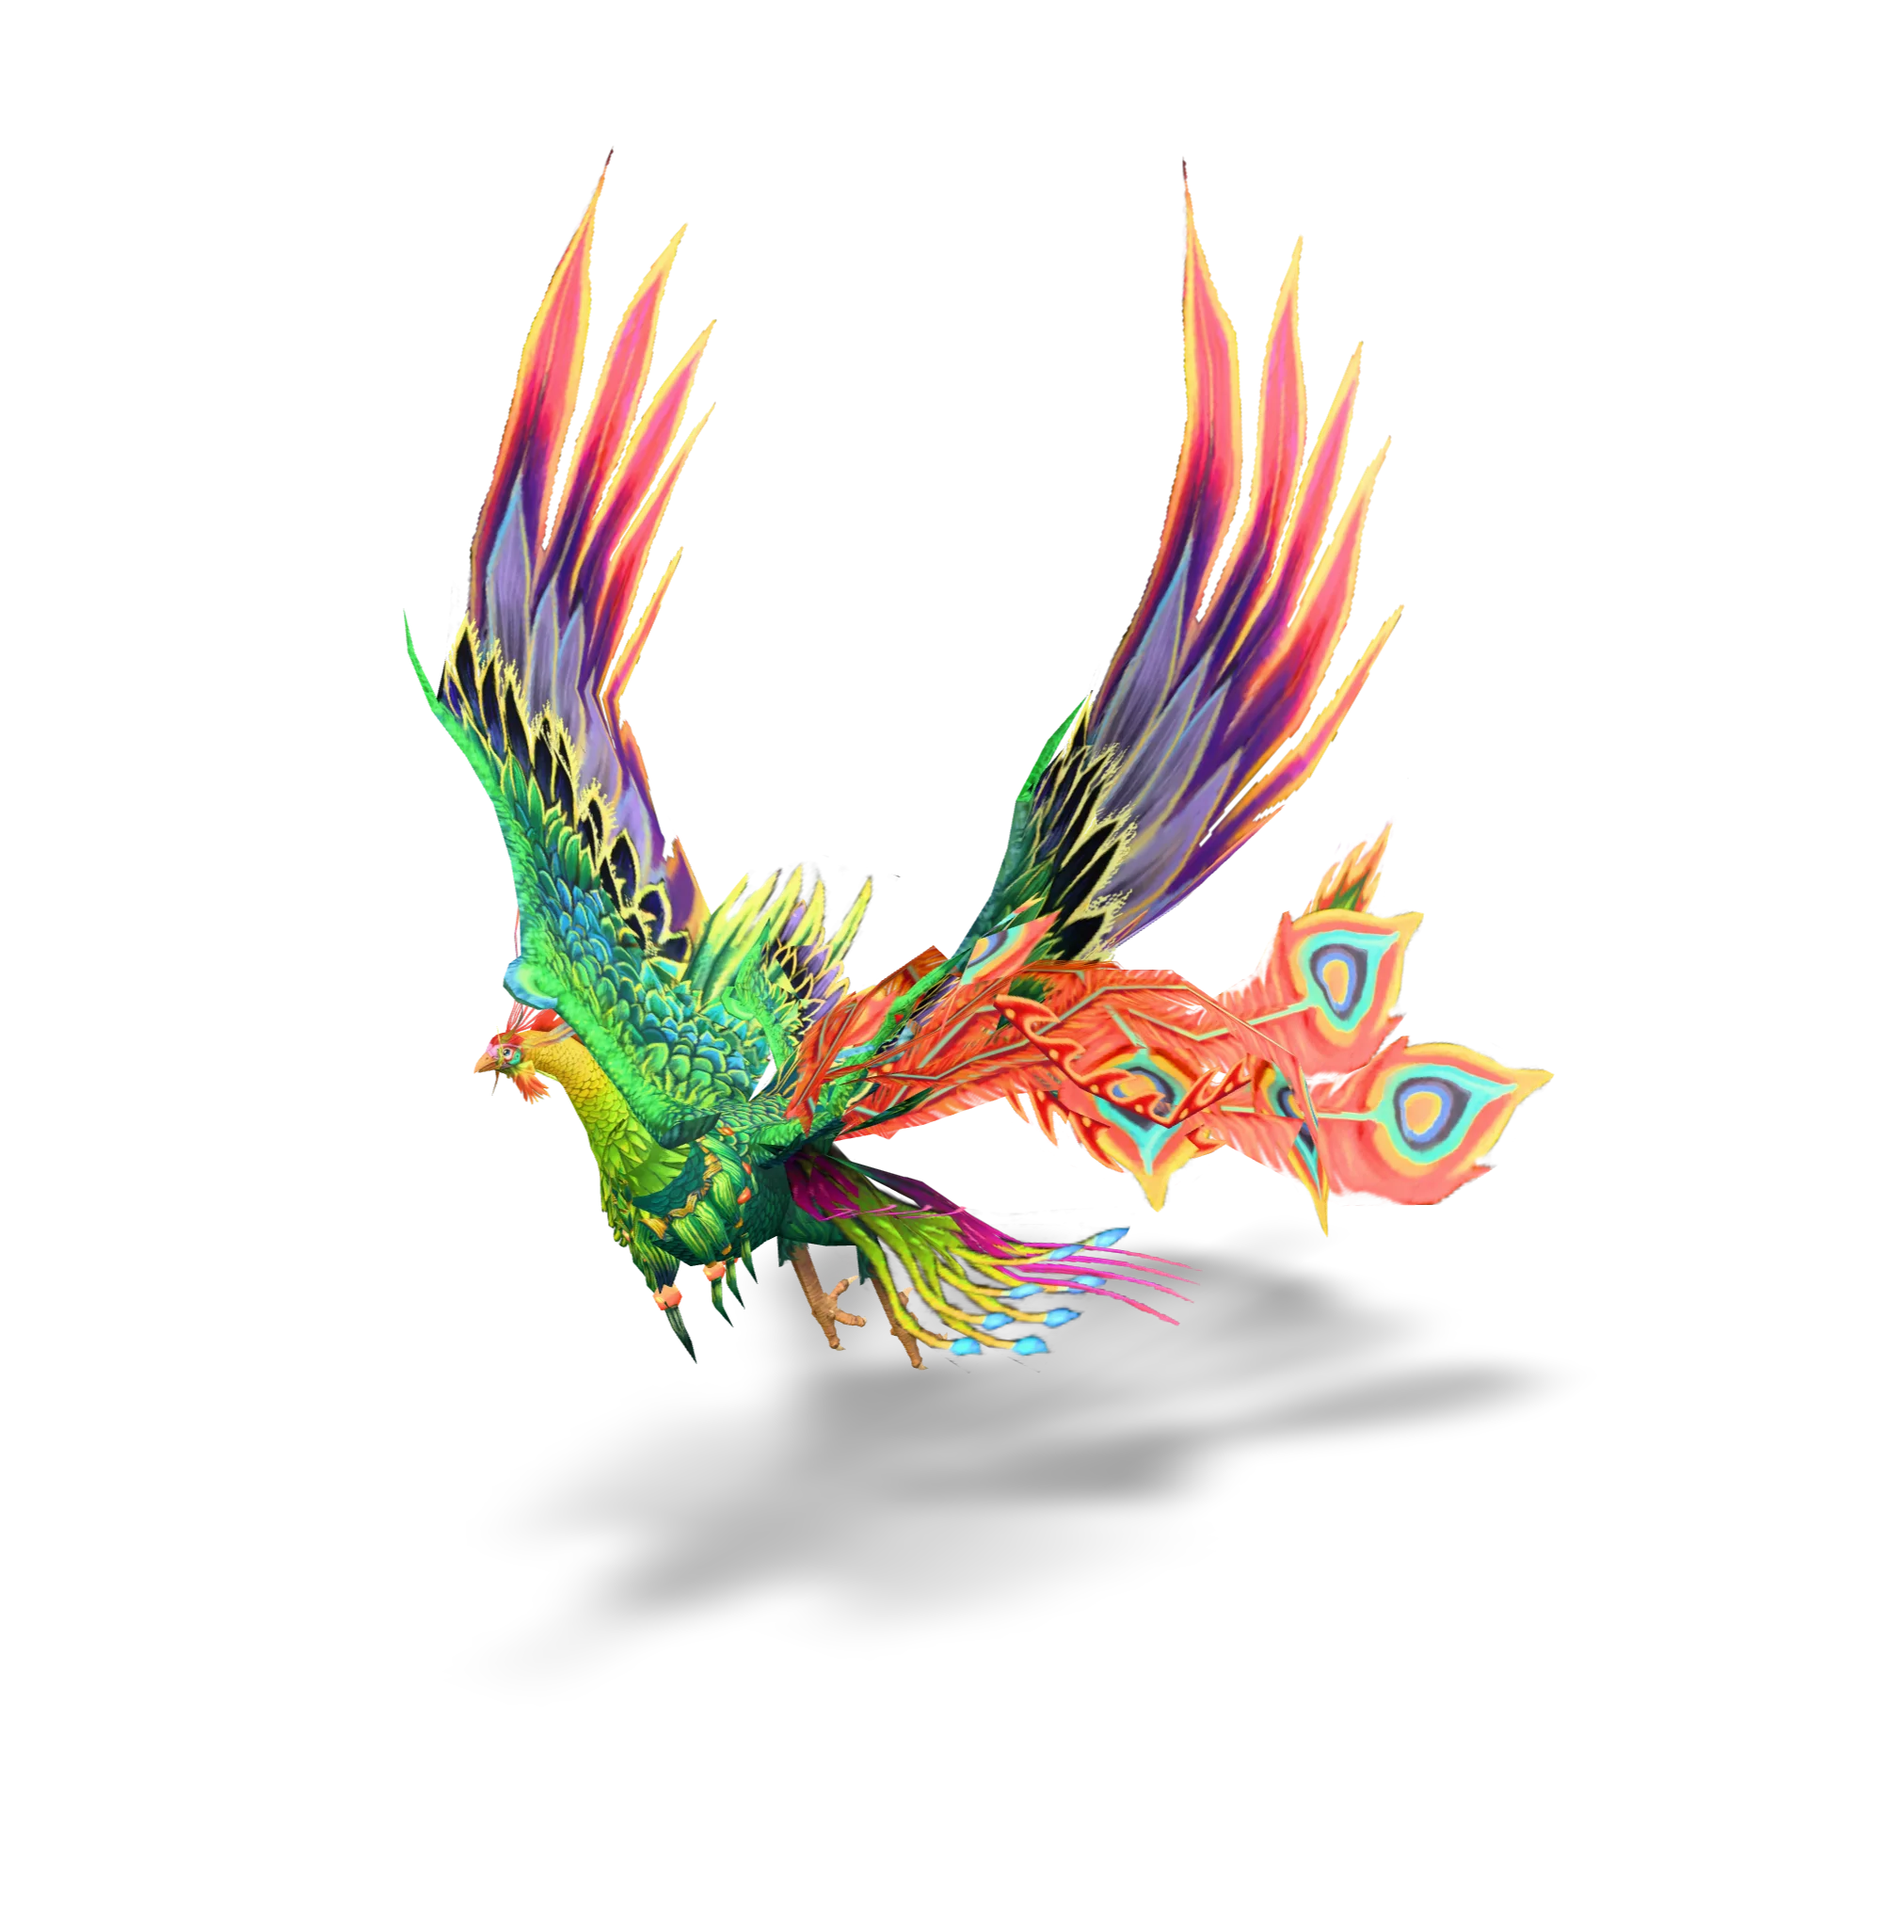
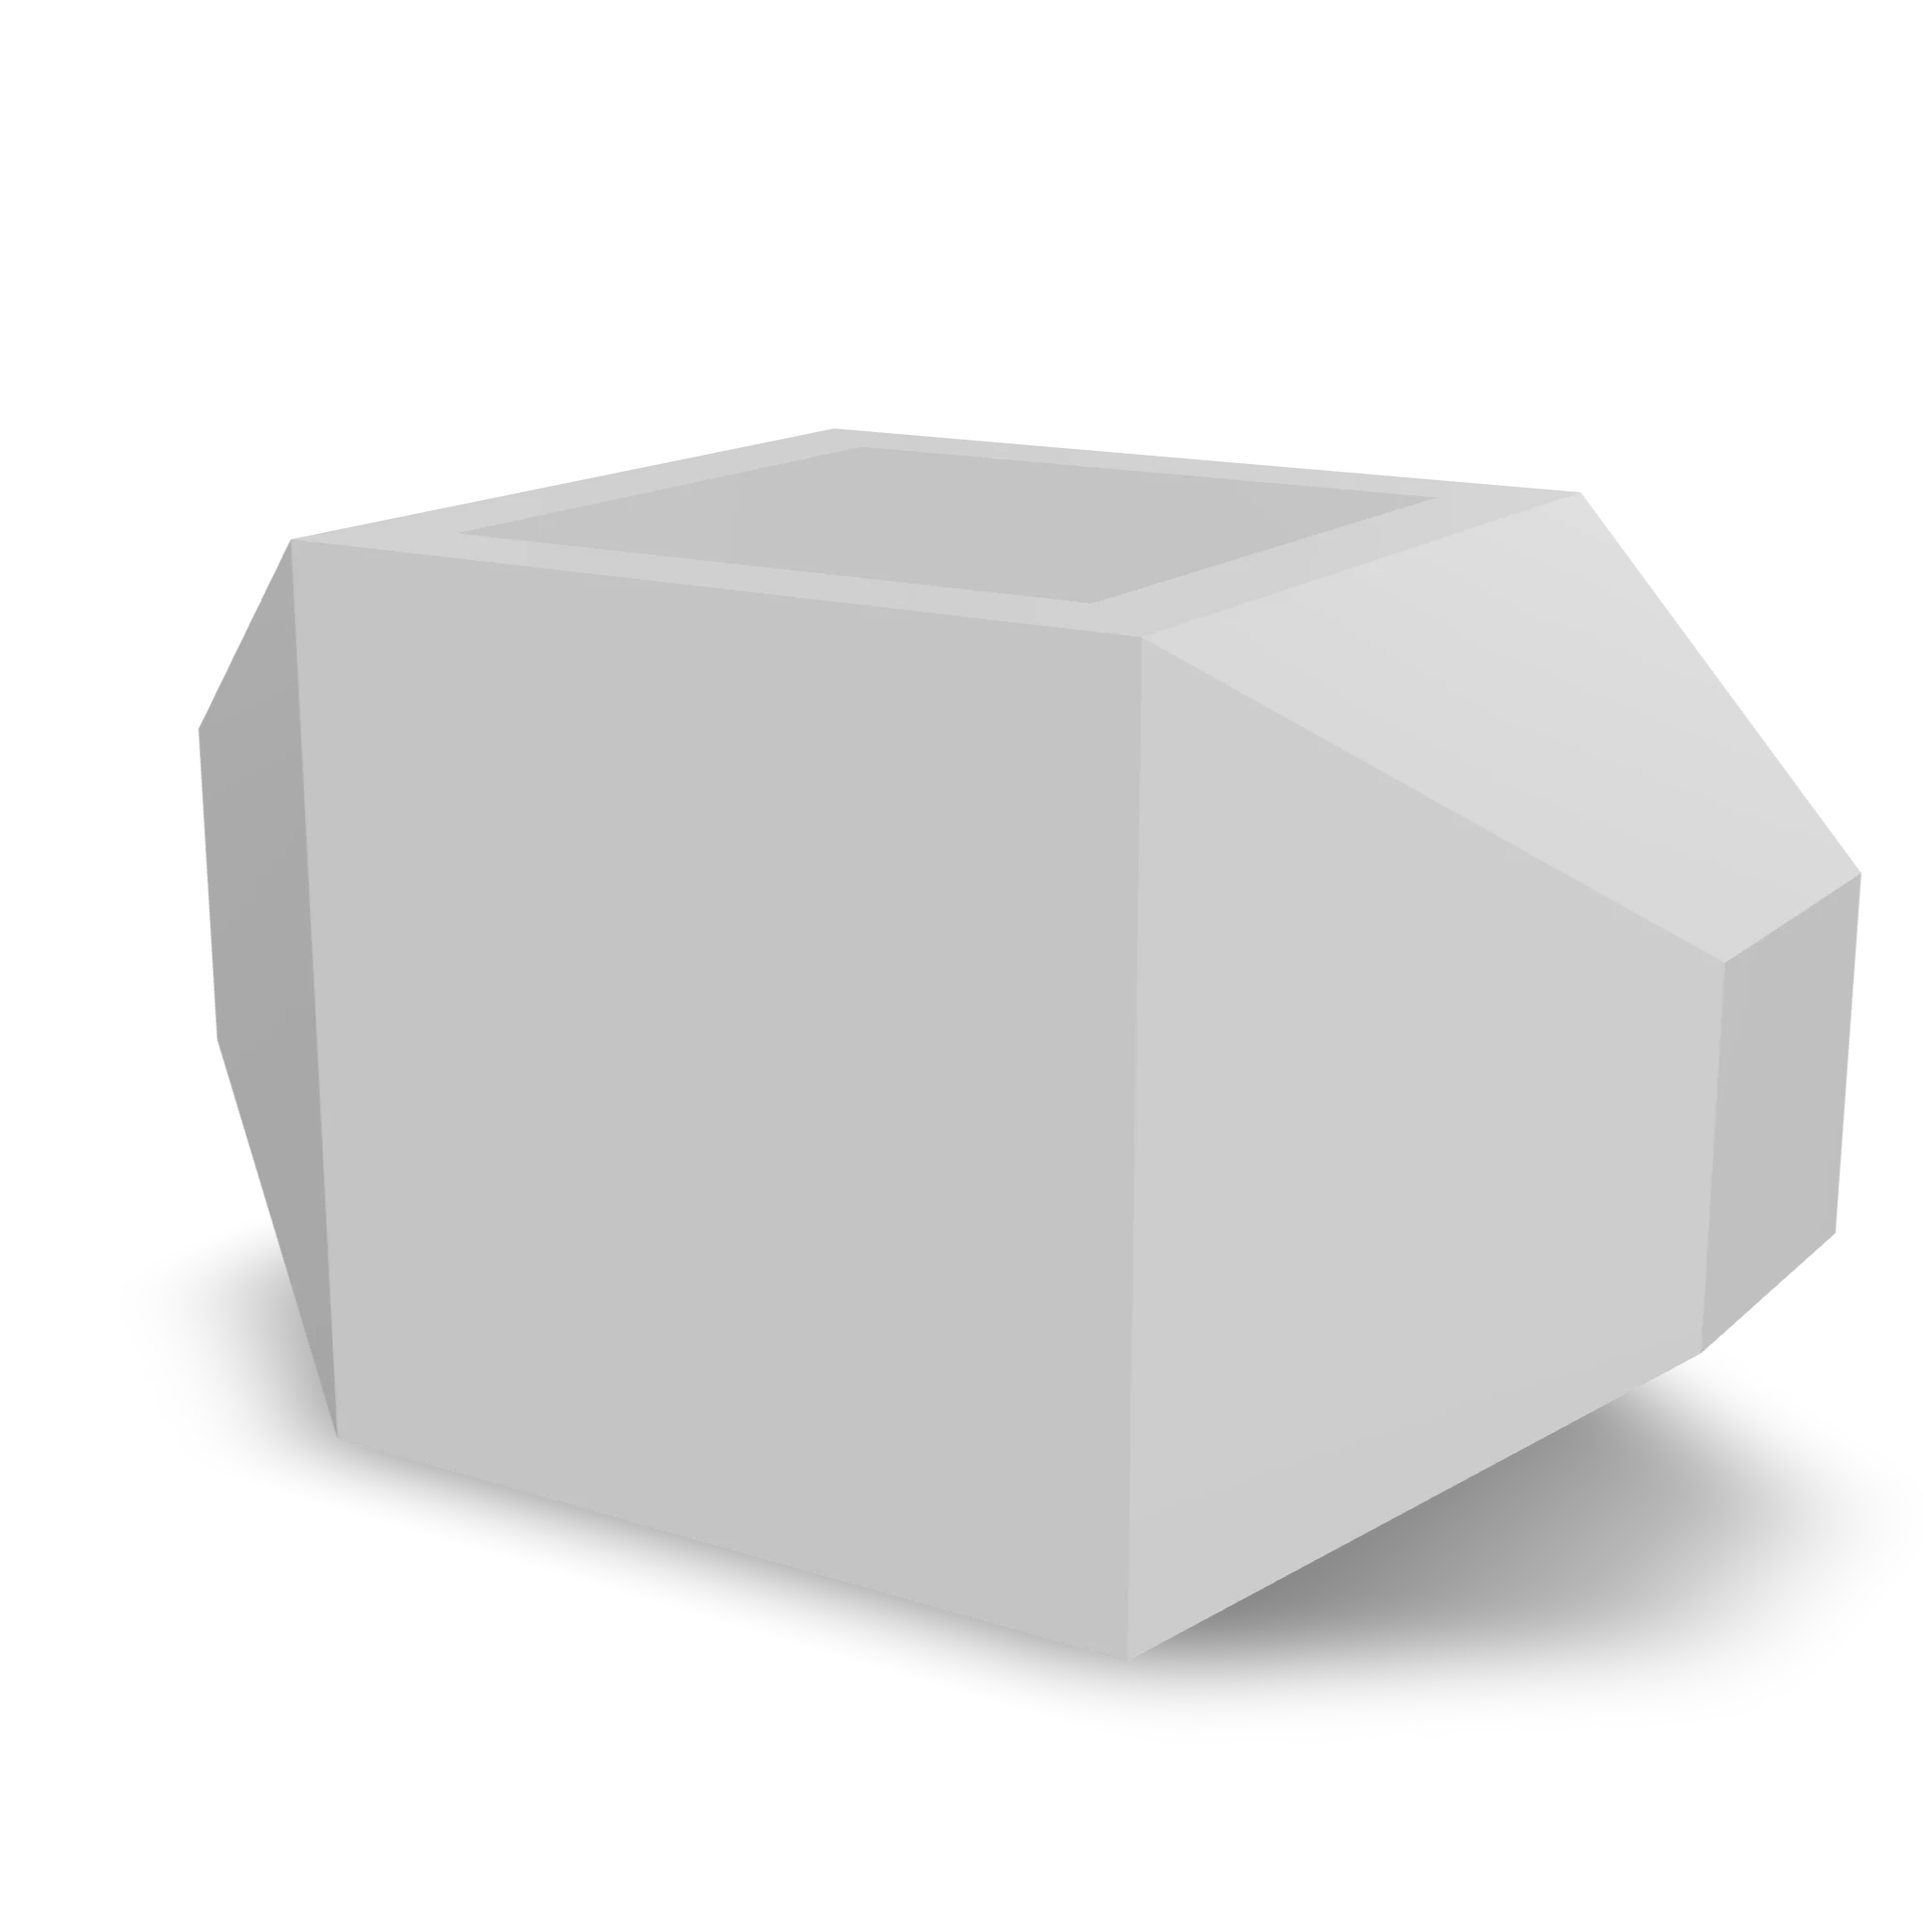
Add files via upload

diff --git a/index.html b/index.html
@@ -9,7 +9,7 @@
   </head>
   <body>
     <!-- <model-viewer> HTML element -->
-    <model-viewer src="phoenix_bird.glb" ar ar-modes="webxr scene-viewer quick-look" camera-controls tone-mapping="neutral" poster="poster.webp" shadow-intensity="1" camera-orbit="126.2deg 75.55deg 1618m" field-of-view="30deg" autoplay>
+    <model-viewer src="test-model.glb" ar ar-modes="webxr scene-viewer quick-look" camera-controls tone-mapping="neutral" poster="poster.webp" shadow-intensity="1" exposure="0.55" shadow-softness="1" camera-orbit="-58.04deg 73.91deg 7.974m" field-of-view="30deg">
       <div class="progress-bar hide" slot="progress-bar">
           <div class="update-bar"></div>
       </div>
